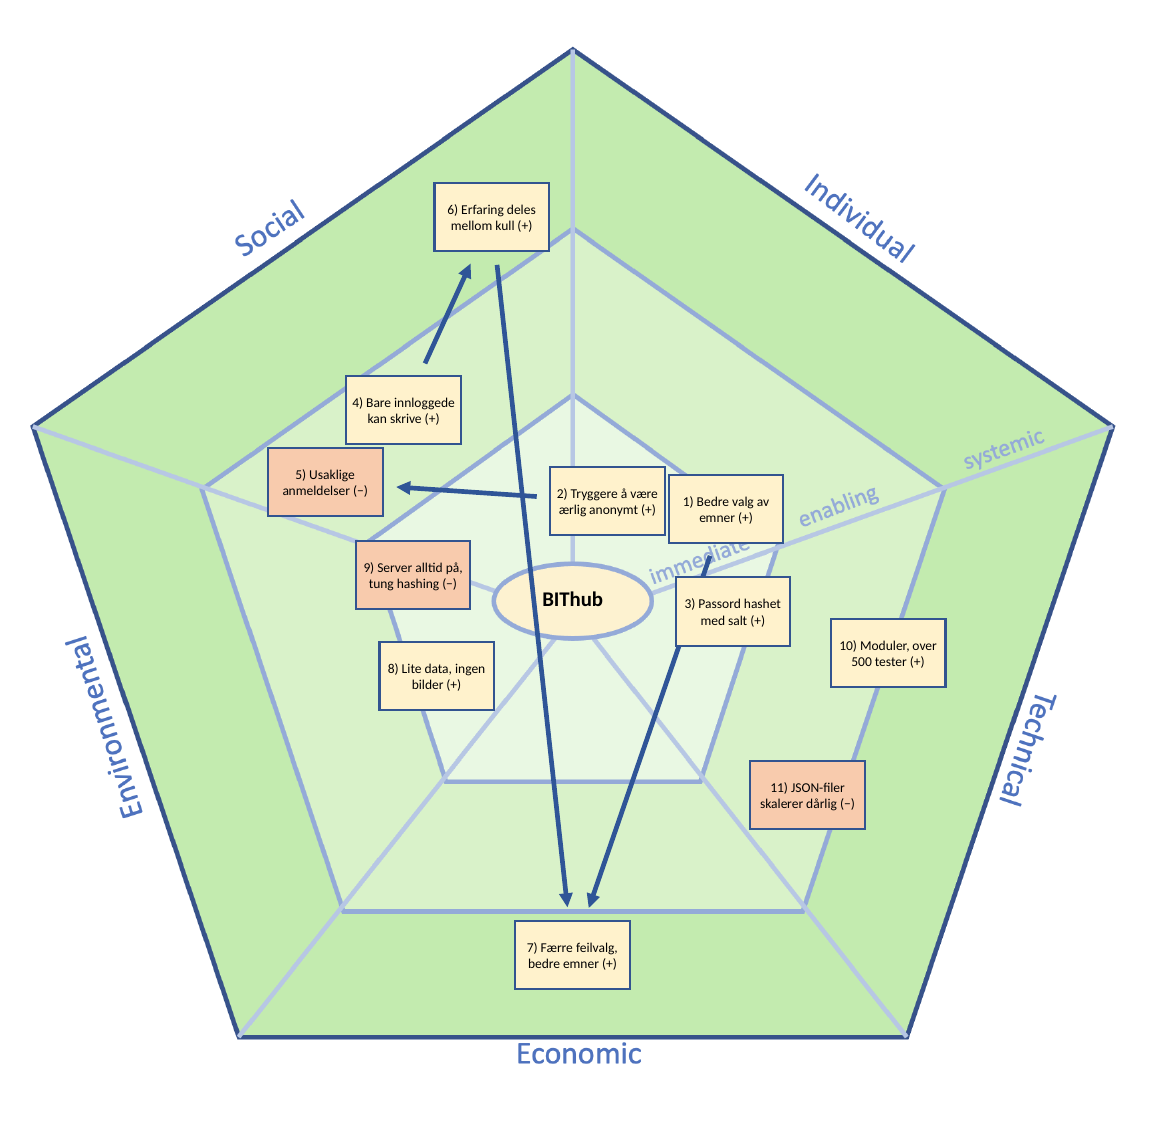
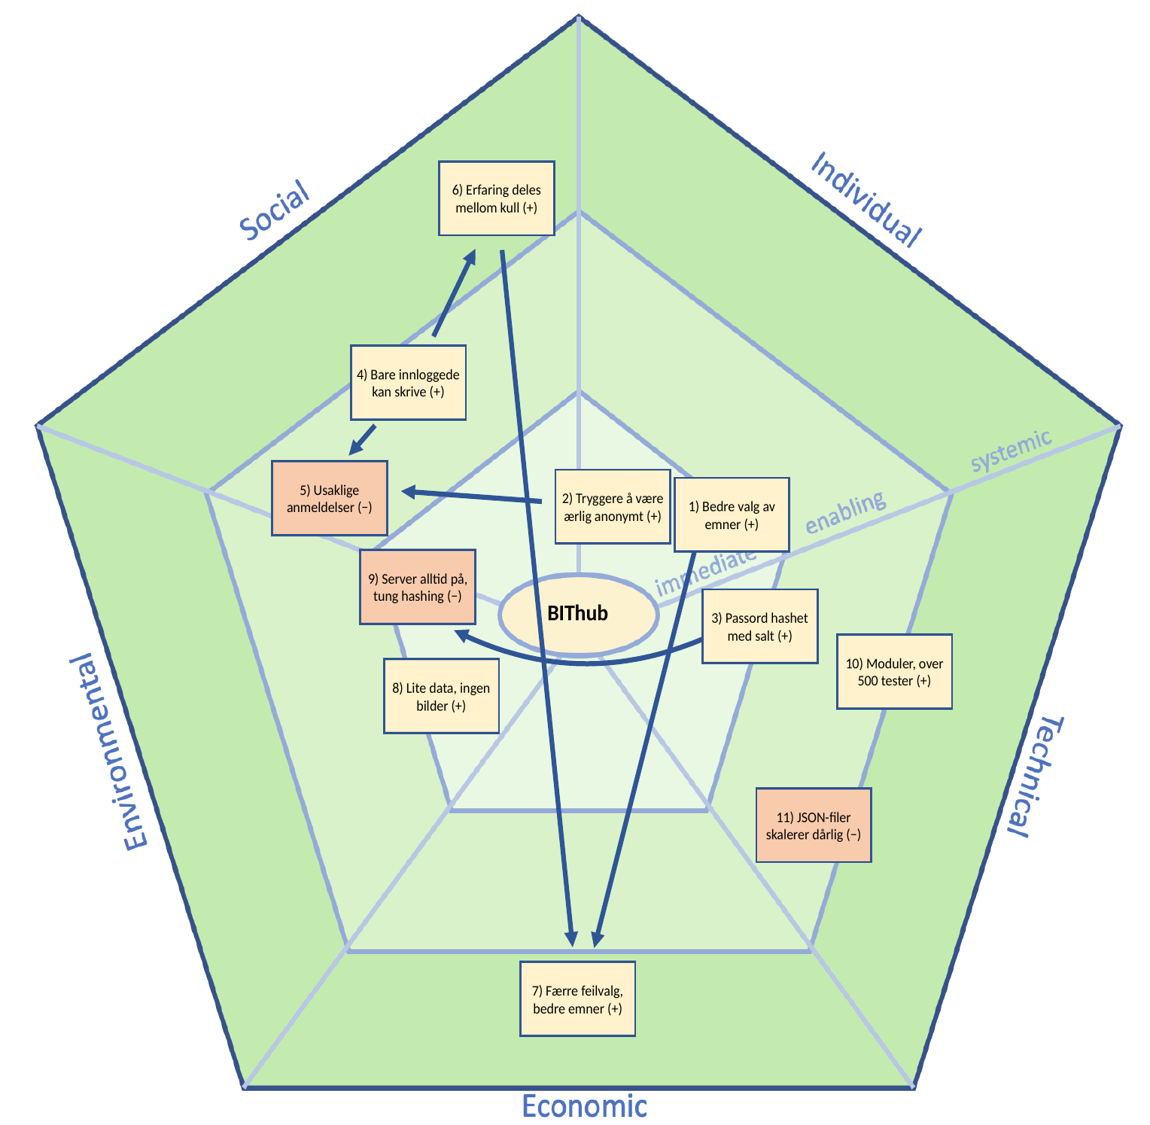
Legg til piler og flytt lapp i SusAD-diagrammet
Flytt lapp 3, slik at pilen fra 1 til 7 ikke ser ut til å starte i
lapp 3. Legg til pilene fra 4 til 5 og fra 3 til 9, siden
innlogging motvirker usaklige anmeldelser og hashingen gjør serveren
tyngre. Tabellen i sustainability.md viser de nye pilene.

ref #210

diff --git a/docs/release3/sustainability.md b/docs/release3/sustainability.md
@@ -6,19 +6,19 @@ Dette dokumentet er en refleksjon over bærekraften i BIThub. Vi har brukt Susta
 
 <a href="bilder_release3/SusAD_diagram.png"><img src="bilder_release3/SusAD_diagram.png" alt="SusAD-diagram for BIThub" width="800"></a>
 
-Diagrammet er laget i SusAD-malen fra faget. Filen [susad.pptx](bilder_release3/susad.pptx) er laget i PowerPoint. Gule lapper er positive virkninger, og røde er negative. En pil betyr at én virkning påvirker en annen.
+Diagrammet er laget i SusAD-malen fra faget. Hvis det skal endres, kan [susad.pptx](bilder_release3/susad.pptx) åpnes i PowerPoint og bildet eksporteres på nytt. Gule lapper er positive virkninger, og røde er negative. En pil betyr at én virkning påvirker en annen.
 
 | ID | Virkning | Dimensjon | Nivå | Påvirker | Påvirkes av |
 |---|---|---|---|---|---|
 | 1 | Bedre grunnlag for å velge emner (+) | Individuell | Umiddelbar | 7 | |
 | 2 | Tryggere å være ærlig anonymt (+) | Individuell | Umiddelbar | 5 | |
-| 3 | Passord lagres som hash med salt (+) | Teknisk | Umiddelbar | | |
-| 4 | Bare innloggede kan skrive (+) | Sosial | Muliggjørende | 6 | |
-| 5 | Usaklige eller sårende anmeldelser (−) | Sosial | Muliggjørende | | 2 |
+| 3 | Passord lagres som hash med salt (+) | Teknisk | Umiddelbar | 9 | |
+| 4 | Bare innloggede kan skrive (+) | Sosial | Muliggjørende | 5, 6 | |
+| 5 | Usaklige eller sårende anmeldelser (−) | Sosial | Muliggjørende | | 2, 4 |
 | 6 | Erfaringer deles mellom kull (+) | Sosial | Strukturell | 7 | 4 |
 | 7 | Færre feilvalg og bedre emner (+) | Økonomisk | Strukturell | | 1, 6 |
 | 8 | Lite data og ingen bilder (+) | Miljø | Umiddelbar | | |
-| 9 | Serveren er alltid på, og hashingen er tung (−) | Miljø | Umiddelbar | | |
+| 9 | Serveren er alltid på, og hashingen er tung (−) | Miljø | Umiddelbar | | 3 |
 | 10 | Moduler, tester og kodesjekk (+) | Teknisk | Muliggjørende | | |
 | 11 | JSON-filer skalerer dårlig (−) | Teknisk | Muliggjørende | | |
 
